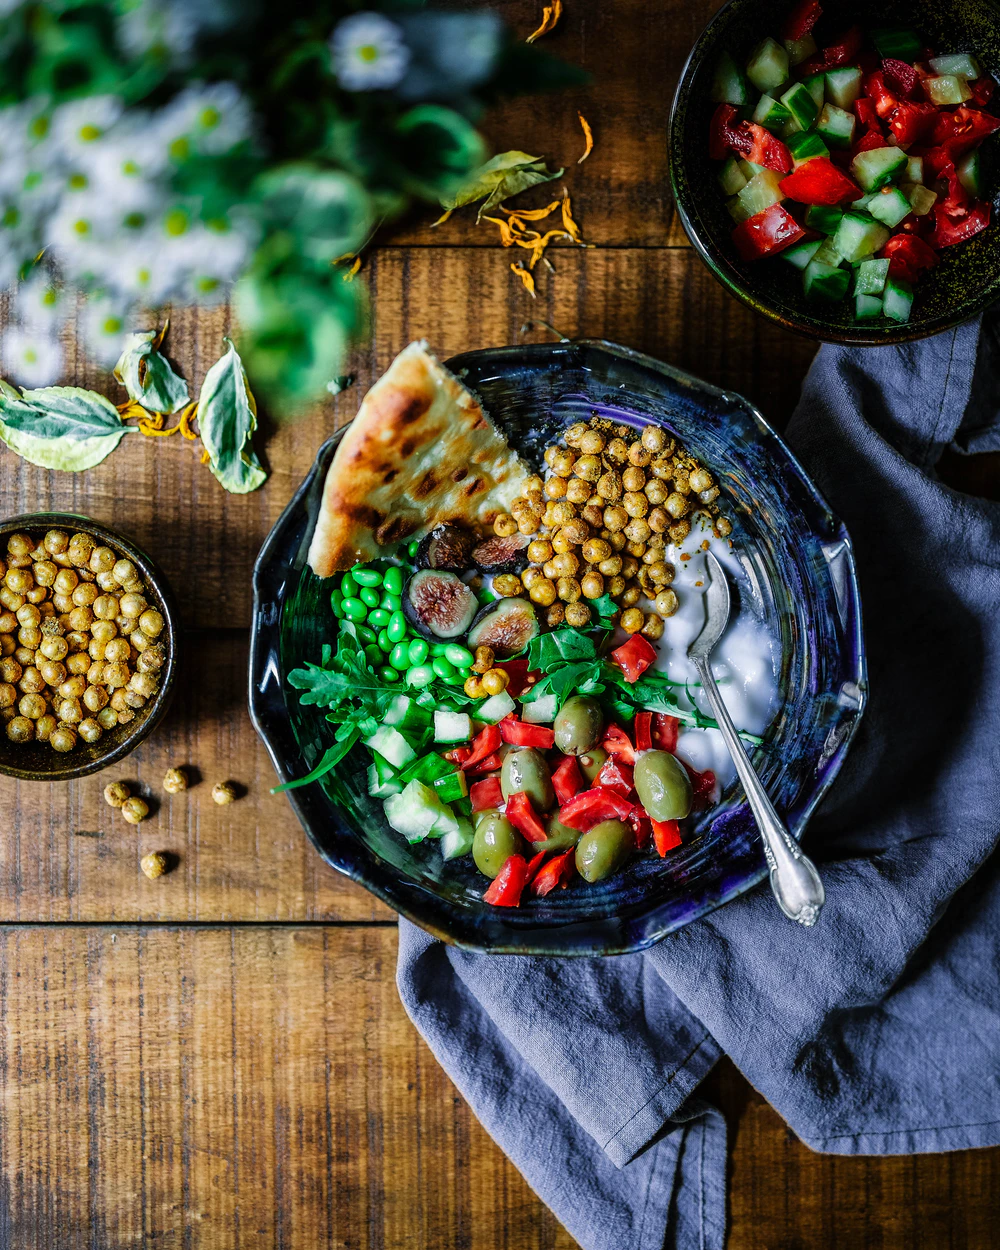
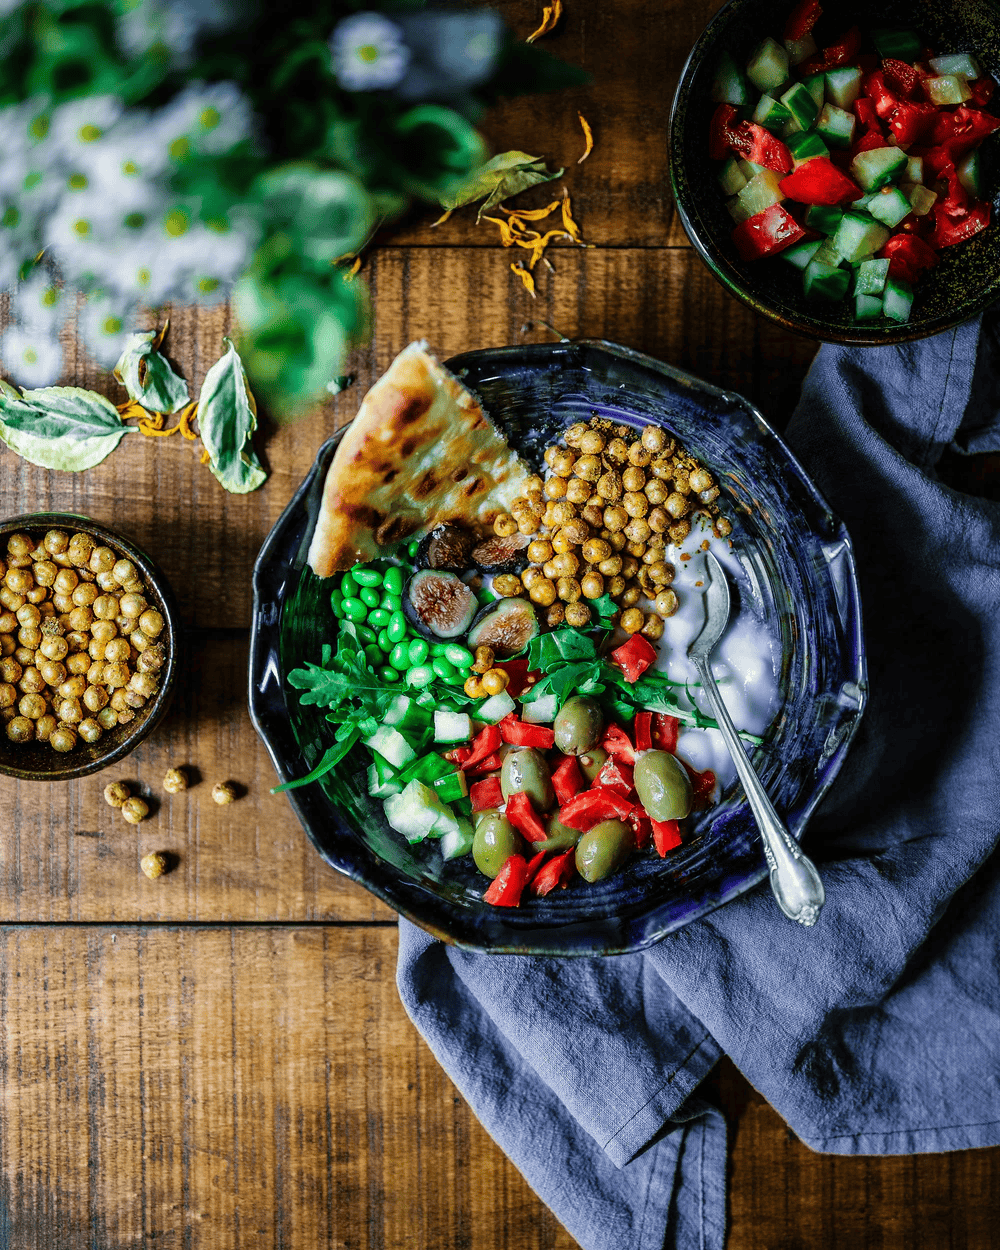
Image optimization and routing set up

diff --git a/app/components/Main.tsx b/app/components/Main.tsx
@@ -6,12 +6,12 @@ import { FiPrinter, FiShare } from 'react-icons/fi'
 import RecipeImage1 from '../../public/images/recipe-img.png'
 import { FaPlay } from 'react-icons/fa'
 
-const Main = () => {
+const Main = ({heading} : {heading: string}) => {
   return (
     <section id='main' className='w-full px-20 pb-20'>
         <div className='w-full flex justify-between mb-16'>
             <div className='flex flex-col gap-12'>
-                <h1 className='font-semibold text-[64px] leading-[77.45px] -tracking-[4%]'>Health Japanese Fried Rice</h1>
+                <h1 className='font-semibold text-[64px] leading-[77.45px] -tracking-[4%]'>{heading}</h1>
                 <div className='flex items-center'>
 
                     <div className='person w-fit flex justify-center items-center gap-[18px] pr-[58px]'>

diff --git a/app/[recipeid]/page.tsx b/app/[recipeid]/page.tsx
@@ -7,11 +7,11 @@ import Directions from "../components/Directions";
 import ContactUs from "../components/ContactUs";
 import OtherRecipeBottom from "../components/OtherRecipeBottom";
 
-export default function Home() {
+export default function Home({params}: {params: {recipeid: string}}) {
   return (
     <main className="flex w-screen h-auto flex-col items-center py-10 leading-[16.94px] -tracking-[2%] ">
         <Navbar />
-        <Main />
+        <Main heading={params.recipeid}/>
         <Ingredients />
         <Directions />
         <ContactUs />
